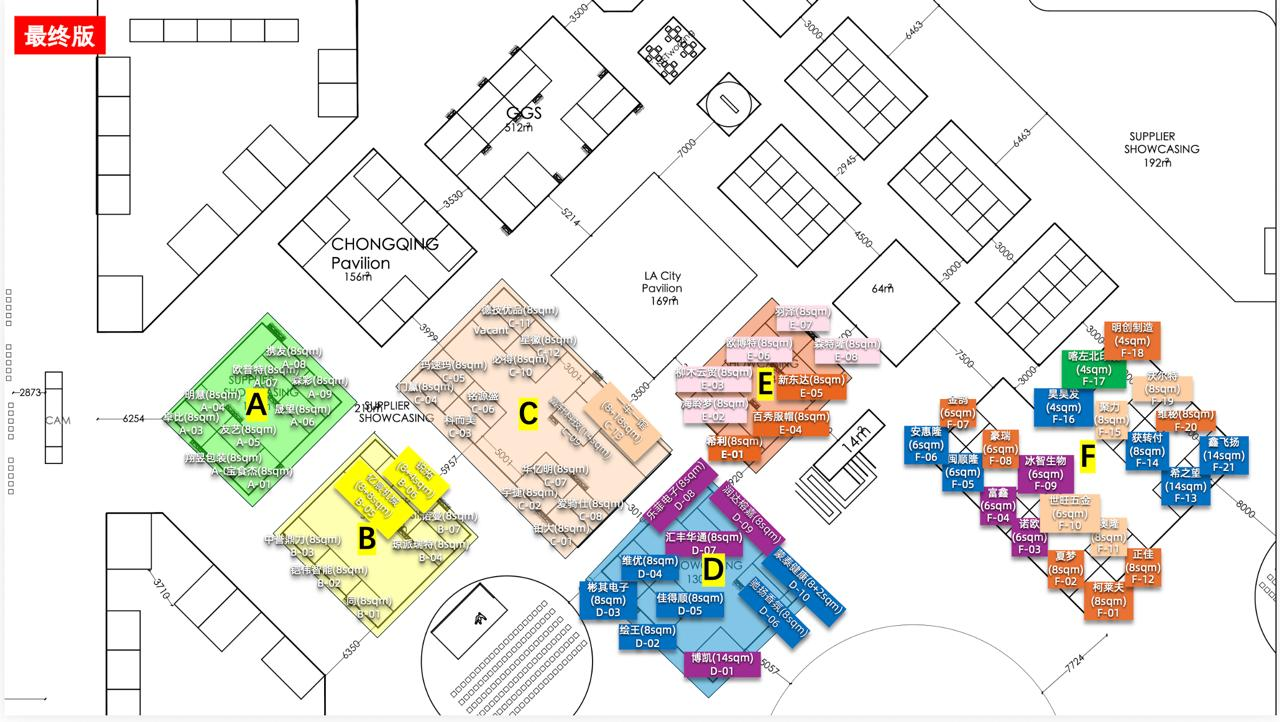
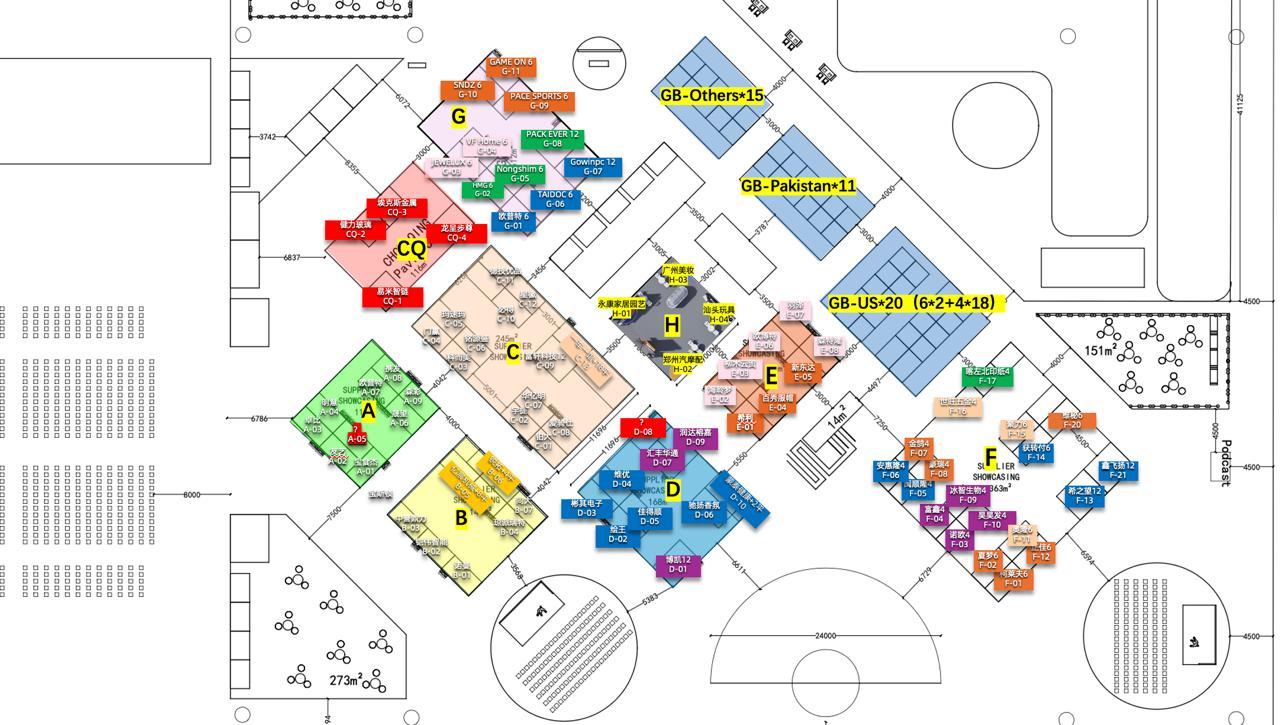
Floor plan 第2頁 → 全場平面圖 (取代 CGS booths)

diff --git a/index.html b/index.html
@@ -242,7 +242,7 @@
 <script src="script.js?v=119&t=20260813"></script>
 <script>
 var FP_PAGES = ['assets/floor-plan-lacc.jpg', 'assets/floor-plan-cgs.jpg'];
-var FP_CAPTIONS = ['Page 1 — Zone Overview + Legend', 'Page 2 — CGS Exhibitor Booths (最終版)'];
+var FP_CAPTIONS = ['Page 1 — Zone Overview + Legend', 'Page 2 — Full Floor Plan (全場平面圖)'];
 var FP_IDX = 0;
 function flipFloor(d) {
   FP_IDX = (FP_IDX + d + FP_PAGES.length) % FP_PAGES.length;
